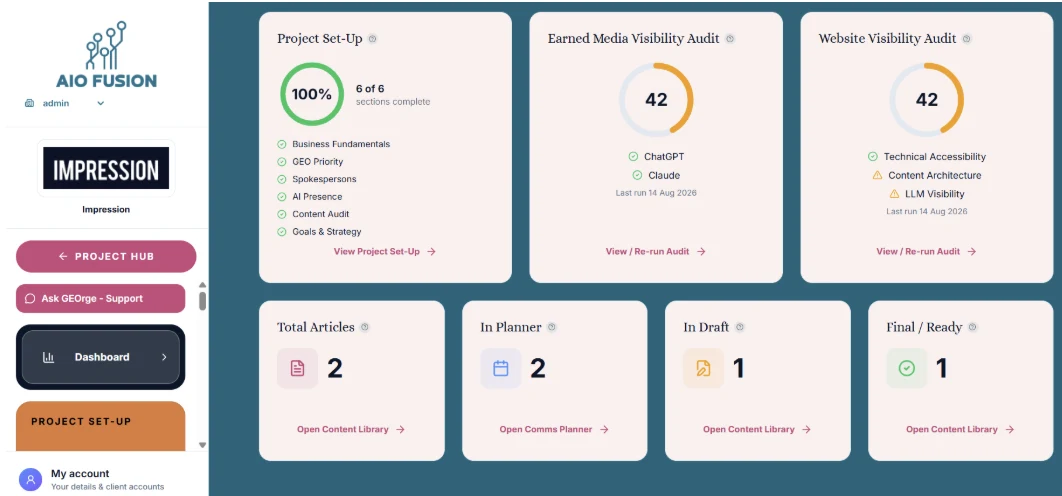
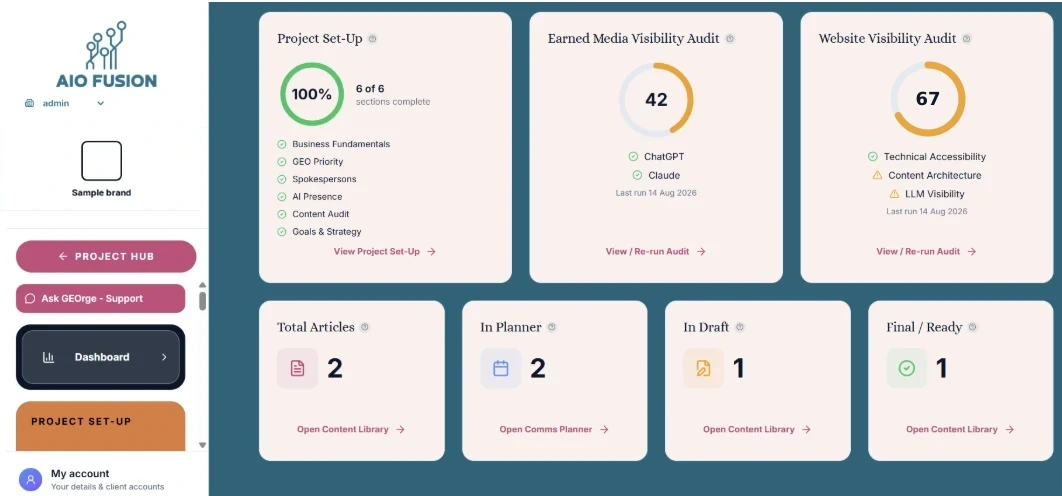
Update agent metadata and landing page assets
Replit-Commit-Author: Agent

Changed region(s): [[0.0311, 0.2722, 0.1864, 0.4536], [0.839, 0.1815, 0.9322, 0.2722], [0.8701, 0.121, 0.9011, 0.1512]]

diff --git a/artifacts/aio-fusion/src/marketing/LandingPage.tsx b/artifacts/aio-fusion/src/marketing/LandingPage.tsx
@@ -136,12 +136,13 @@ export default function LandingPageC({
             </div>
             <div className="lg:col-span-5 lg:-translate-x-12 lg:scale-[1.11] lg:origin-left xl:-translate-x-20 xl:scale-[1.16]">
               <PlatformDesktopFrame
-                src={`${base}images/platform-dashboard-real.webp`}
-                alt="AIO Fusion project dashboard showing setup progress, visibility audits and content activity"
-                title="Authority dashboard"
+                src={`${base}images/platform-dashboard-real.webp?v=sample-scores`}
+                alt="Illustrative AIO Fusion dashboard with a sample brand and example audit scores"
+                title="Example authority dashboard"
                 fit="fill"
                 priority
               />
+              <p className="mt-1 text-center text-[11px]" style={{ color: vars.g500 }}>Illustrative preview. Audit scores are example values.</p>
             </div>
           </div>
         </div>

diff --git a/.agents/memory/aio-fusion-public-platform-captures.md b/.agents/memory/aio-fusion-public-platform-captures.md
@@ -8,3 +8,9 @@ Marketing screenshots that show the authenticated product should come from a dis
 **Why:** A sign-in-page screenshot and an illustrative UI were originally used where the website brief called for genuine platform views. Capturing real customer workspaces would risk exposing private account and project data.
 
 **How to apply:** Use an isolated local database and synthetic login to capture genuine product views. Inspect exported images for names, emails, URLs and customer content before making them public. Do not call an illustration or sign-in screen an authenticated platform view.
+
+When anonymising an approved marketing capture, replace both the borrowed logo and its adjacent name with a neutral blank mark and sample label. If changing example score graphics for presentation, label the resulting preview illustrative; leave live audit calculations and customer records untouched.
+
+**Why:** The neutral dashboard treatment with distinct example scores was approved, but leaving a brand name below a removed logo would undermine the anonymisation.
+
+**How to apply:** Inspect every logo, caption and score in the final rendered image, not just the source component.
